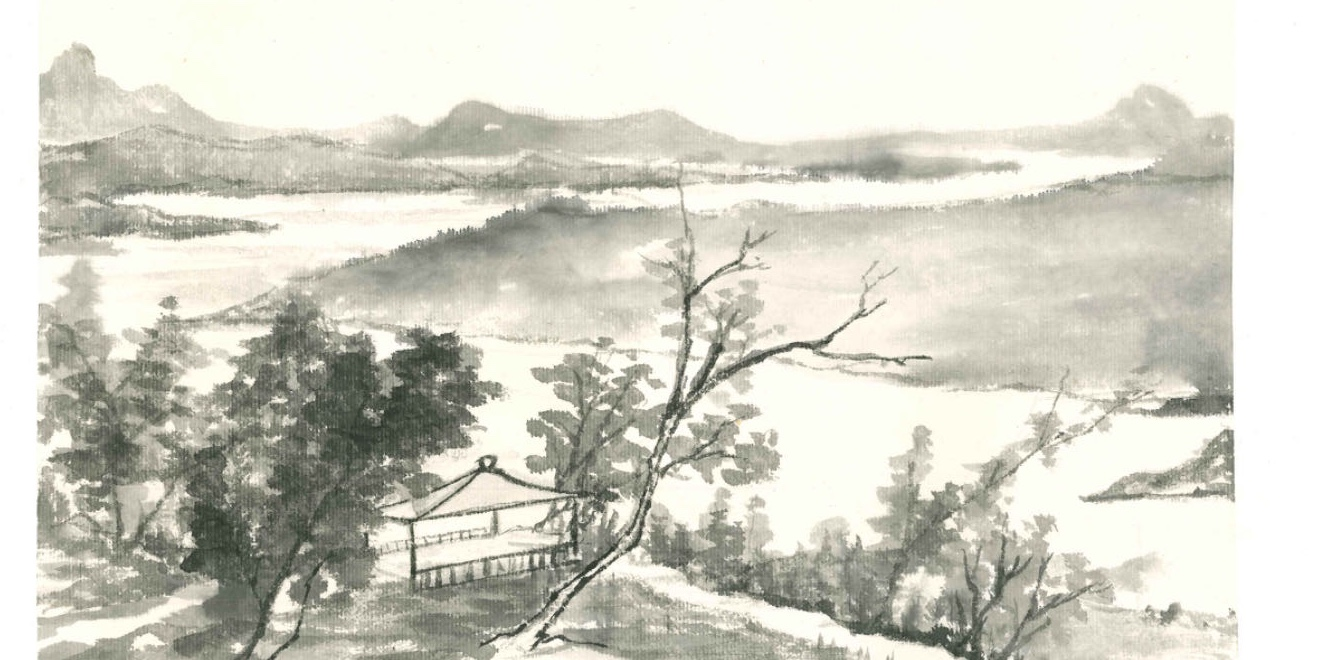
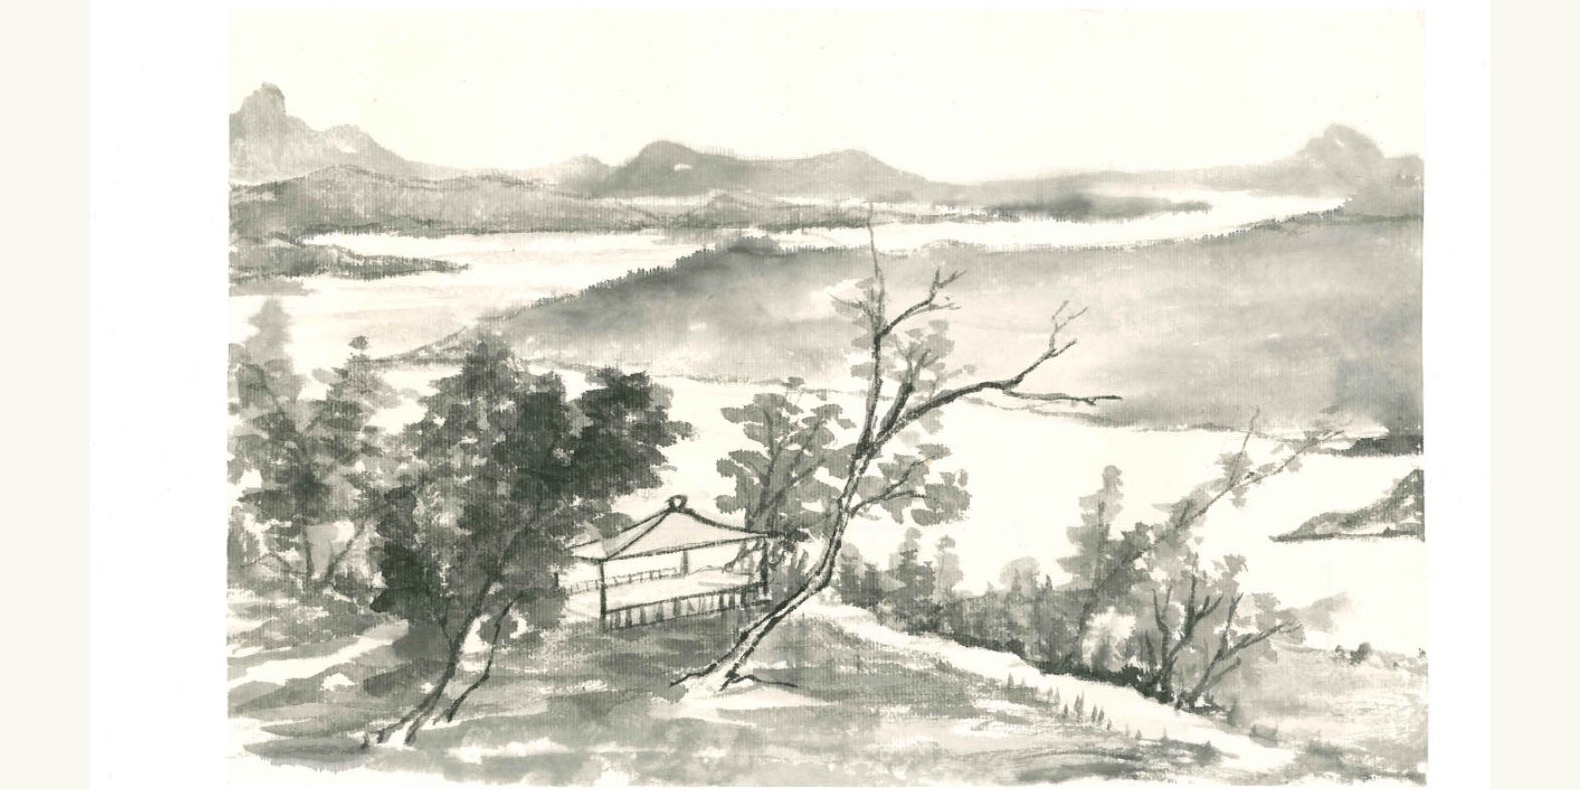
fix: preserve complete painting compositions

diff --git a/docs/superpowers/specs/2026-11-05-painting-gallery-design.md b/docs/superpowers/specs/2026-11-05-painting-gallery-design.md
@@ -7,7 +7,7 @@ Publish ten supplied ink landscape works in the existing Painting section so vis
 ## Goals
 
 - Keep every supplied source image untouched outside the repository.
-- Create a separate cropped website copy for each work; crop only and do not redraw, retouch, recolor, sharpen, or clean the artwork.
+- Create a separate website copy for each work; crop scanner margins without redrawing, retouching, recoloring, sharpening, or cleaning the artwork.
 - Turn off the Painting “Coming soon” state and render the works through the existing CMS-backed gallery and lightbox.
 - Use the titles `01` through `10`, in the supplied order.
 - Keep each work editable through the existing Painting collection in the browser CMS.
@@ -20,7 +20,7 @@ Determine composition from the effective painted area after the large white scan
 - Portrait `1:2`: work `03`.
 - Landscape `2:1`: works `05`, `06`, `07`, and `08`.
 
-The physical website copies will already have these ratios. Gallery thumbnails use the complete cropped copy rather than applying an additional destructive crop. The lightbox uses the same cropped copy at `object-fit: contain`.
+The physical website copies will already have these ratios. Where an exact-ratio crop would remove painted content, retain the complete painted area and add neutral paper-color side padding instead of tightening the crop. Gallery thumbnails use the complete prepared copy rather than applying an additional destructive crop. The lightbox uses the same copy at `object-fit: contain`.
 
 ## Site Content and Layout
 
@@ -40,6 +40,6 @@ The physical website copies will already have these ratios. Gallery thumbnails u
 ## Non-goals and Failure Conditions
 
 - Do not modify or overwrite the ten supplied originals.
-- Do not alter the drawing marks, tonal values, paper color, or composition beyond cropping blank margins to the agreed ratios.
+- Do not alter the drawing marks, tonal values, paper color, or composition; use paper-color padding when cropping alone cannot reach the agreed ratio without cutting painted content.
 - Do not change the Photography gallery proportions or reorder existing photography works.
 - Do not publish if a crop cuts through meaningful painted content or if any work is missing from the CMS, gallery, or lightbox.

diff --git a/docs/superpowers/plans/2026-11-05-painting-gallery.md b/docs/superpowers/plans/2026-11-05-painting-gallery.md
@@ -13,7 +13,7 @@
 ## Global Constraints
 
 - Keep the ten supplied source images untouched.
-- Crop only; do not redraw, retouch, recolor, sharpen, or clean the artwork.
+- Crop scanner margins without redrawing, retouching, recoloring, sharpening, or cleaning the artwork; if an exact-ratio crop would remove painted content, preserve it with neutral paper-color side padding.
 - Titles are exactly `01` through `10`, in supplied order.
 - Square works are `1:1`, portrait work `03` is `1:2`, and landscape works `05`–`08` are `2:1`.
 - Photography keeps its current `3:4` and `4:3` behavior.
@@ -66,7 +66,7 @@ Expected: FAIL because no Painting works or `display_ratio` field exists.
 
 - [ ] **Step 3: Create and inspect the ten cropped derivatives**
 
-Use the built-in image edit flow once per source image with the source as the edit target. Require a crop-only edit that removes blank scan margins, preserves every drawing mark and tonal value, and targets the ratio declared above. Save accepted outputs as `painting-01.jpg` through `painting-10.jpg`; use `sips` only to normalize the final canvas to the exact ratio if the generated dimensions are not exact. Inspect each derivative side-by-side with its source and reject any output that alters artwork or cuts meaningful content.
+Use the built-in image edit flow once per source image with the source as the edit target. Require an edit that removes blank scan margins, preserves every drawing mark and tonal value, and targets the ratio declared above. Save accepted outputs as `painting-01.jpg` through `painting-10.jpg`; use `sips` to normalize the final canvas to the exact ratio, adding neutral paper-color side padding where cropping alone would cut painted content. Inspect each derivative side-by-side with its source and reject any output that alters artwork or cuts meaningful content.
 
 - [ ] **Step 4: Add work records, CMS field, and validation**
 
